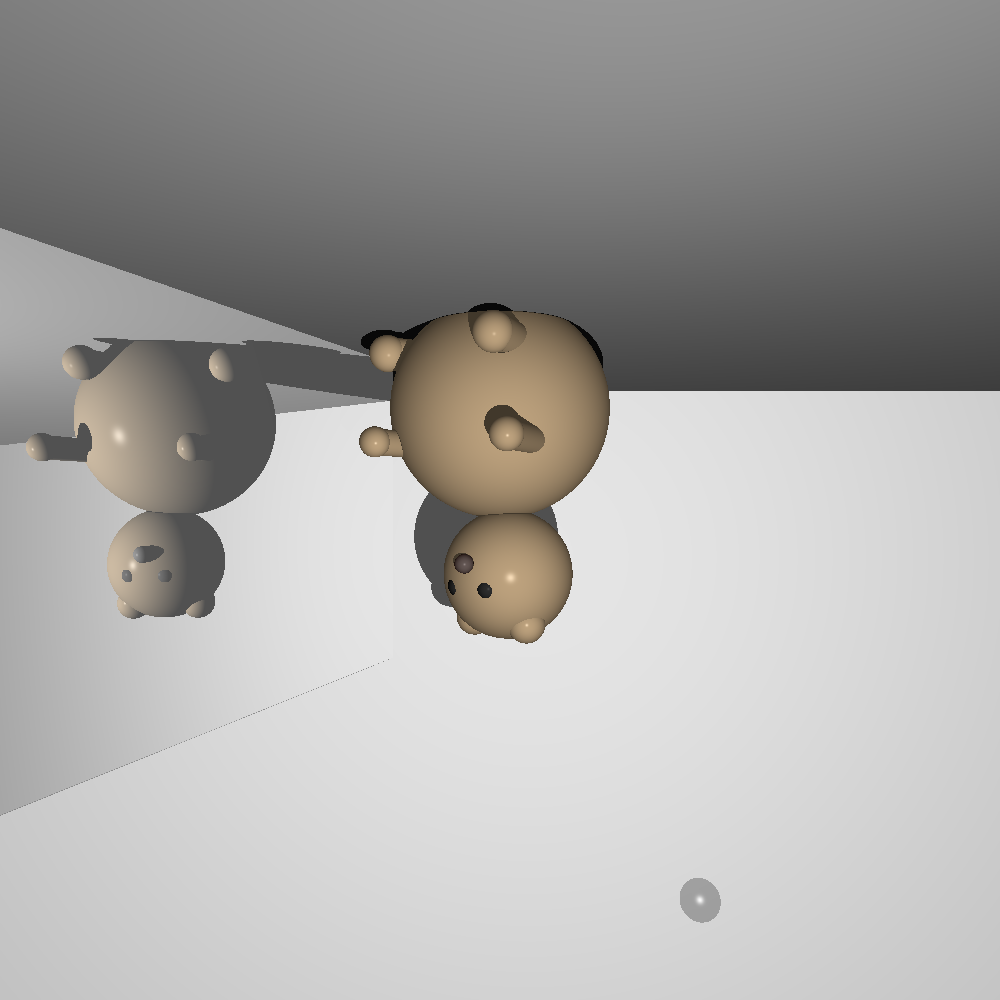
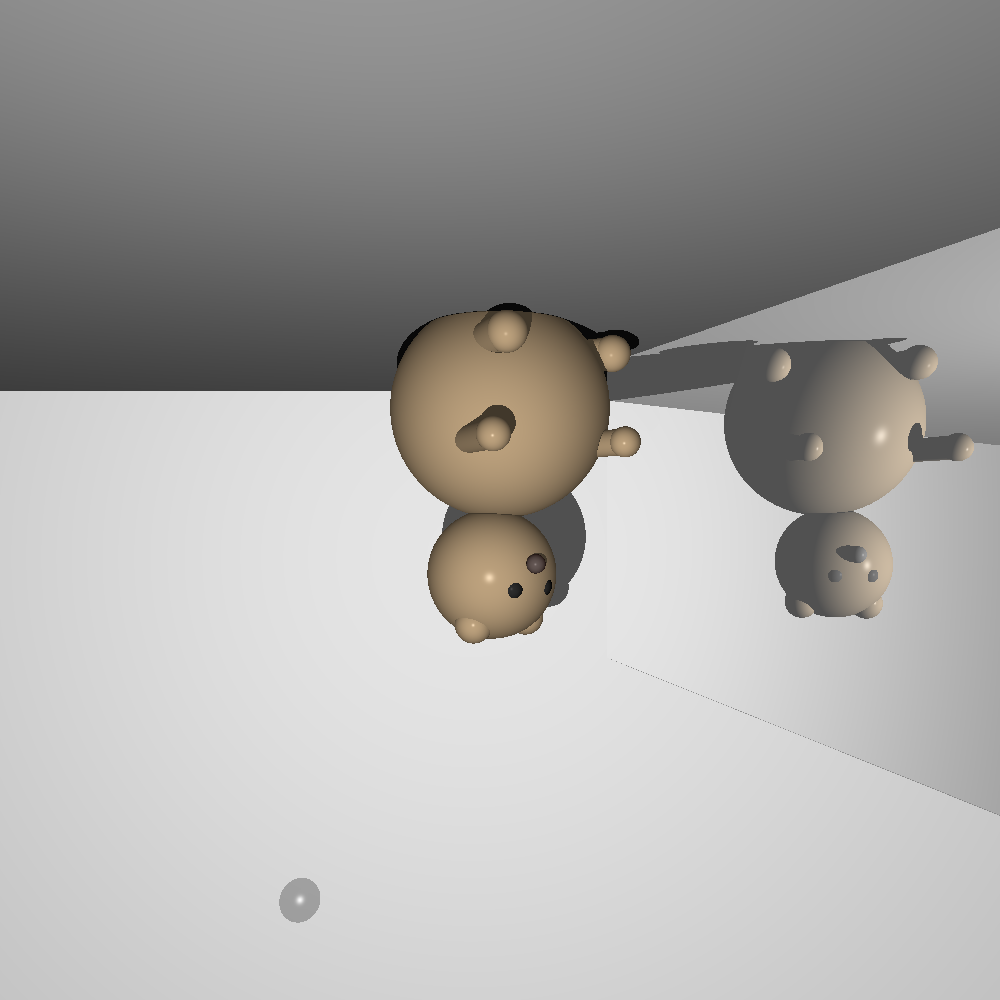
move camera bonus - using linear algebra class. tests passed.

diff --git a/src/primitives/Transform.java b/src/primitives/Transform.java
@@ -5,6 +5,8 @@ import java.util.List;
 
 import primitives.Double3;
 
+import static primitives.Util.isZero;
+
 /**
  * Utility class for performing basic transformations on points and vectors.
  * Provides methods for translating and rotating multiple {@link Point} or
@@ -19,23 +21,16 @@ public final class Transform {
      * Translates the given points (or vectors) by moving them in the provided
      * direction scaled to the specified distance.
      *
-     * @param direction the direction of translation
-     * @param distance  how far to move along the direction
+     * @param delta    the direction and distance to move the points
      * @param points    the points or vectors to move
      * @return a new list containing the moved points, preserving the runtime
      *         type of each element
      */
-    public static List<Point> movePoints(Vector direction, double distance,
-                                         Point... points) {
-        Vector delta = direction.normalize().scale(distance);
+    public static List<Point> movePoints(Vector delta, Point... points) {
         List<Point> result = new ArrayList<>(points.length);
         for (Point p : points) {
-            Double3 xyz = p.xyz.add(delta.xyz);
-            if (p instanceof Vector) {
-                result.add(new Vector(xyz));
-            } else {
-                result.add(new Point(xyz));
-            }
+            Point movedPoint = p.add(delta);
+            result.add(movedPoint);
         }
         return result;
     }
@@ -45,26 +40,59 @@ public final class Transform {
      * specified angle measured in degrees.
      *
      * @param degrees rotation angle in degrees (clockwise)
+     * @param axis    the axis of rotation, which defines the origin and direction
      * @param points  the points or vectors to rotate
      * @return a new list containing the rotated points, preserving the runtime
      *         type of each element
      */
-    public static List<Point> rotatePointsClockwise(double degrees,
-                                                    Point... points) {
-        double radians = Math.toRadians(-degrees); // negative for clockwise
-        double cos = Math.cos(radians);
-        double sin = Math.sin(radians);
+    public static List<Point> rotatePointsClockwise(double degrees, Ray axis, Point... points) {
+        Point origin = axis.getHead();
         List<Point> result = new ArrayList<>(points.length);
+
         for (Point p : points) {
-            double x = p.xyz.d1() * cos - p.xyz.d2() * sin;
-            double y = p.xyz.d1() * sin + p.xyz.d2() * cos;
-            Double3 xyz = new Double3(x, y, p.xyz.d3());
-            if (p instanceof Vector) {
-                result.add(new Vector(xyz));
-            } else {
-                result.add(new Point(xyz));
-            }
+            Vector v = p.subtract(origin);
+            Vector rotated = rotateVectorsClockwise(degrees, axis, v).get(0); // Rotate the vector
+            Point rotatedPoint = origin.add(rotated);
+            result.add(rotatedPoint);
         }
         return result;
     }
+
+    /**
+     * Rotates the given vectors around the specified axis clockwise by the
+     * specified angle measured in degrees.
+     *
+     * @param degrees rotation angle in degrees (clockwise)
+     * @param axis    the axis of rotation, which defines the origin and direction
+     * @param vectors the vectors to rotate
+     * @return a new list containing the rotated vectors, preserving the runtime
+     *         type of each element
+     */
+    public static List<Vector> rotateVectorsClockwise(double degrees, Ray axis, Vector... vectors) {
+        double radians = Math.toRadians(-degrees);
+        double cos = Math.cos(radians);
+        double sin = Math.sin(radians);
+        Vector k = axis.getDirection();
+        List<Vector> result = new ArrayList<>(vectors.length);
+
+        for (Vector v : vectors) {
+
+            // General case: Rodrigues' rotation formula
+            Point term1 = isZero(cos) ?  new Point(0, 0, 0) : v.scale(cos);
+            Point term2 = isZero(sin)? new Point(0, 0, 0) : k.crossProduct(v).scale(sin);
+            Point term3 = isZero(k.dotProduct(v)) ? new Point(0, 0, 0) : k.scale(k.dotProduct(v) * (1 - cos));
+
+            // Ensure precision by aligning values to zero where applicable
+            Vector rotated = new Vector(
+                Util.alignZero(term1.xyz.d1() + term2.xyz.d1() + term3.xyz.d1()),
+                Util.alignZero(term1.xyz.d2() + term2.xyz.d2() + term3.xyz.d2()),
+                Util.alignZero(term1.xyz.d3() + term2.xyz.d3() + term3.xyz.d3())
+            );
+
+            result.add(rotated);
+        }
+        return result;
+    }
+
+
 }

diff --git a/src/renderer/Camera.java b/src/renderer/Camera.java
@@ -1,12 +1,10 @@
 package renderer;
 
-import primitives.Color;
-import primitives.Point;
-import primitives.Ray;
-import primitives.Vector;
+import primitives.*;
 import scene.Scene;
 
 import java.util.MissingResourceException;
+import java.util.List;
 
 import static primitives.Util.isZero;
 
@@ -22,11 +20,11 @@ public class Camera implements Cloneable {
     public static class Builder {
         final private Camera camera;
 
-        public Builder(){
+        public Builder() {
             camera = new Camera();
         }
 
-        public Builder(Camera old){
+        public Builder(Camera old) {
             camera = old;
         }
 
@@ -131,9 +129,9 @@ public class Camera implements Cloneable {
          * Finalizes and builds the camera.
          *
          * @return the constructed camera
-         * @throws CloneNotSupportedException        if cloning fails
-         * @throws MissingResourceException          if essential camera properties are missing
-         * @throws IllegalArgumentException          if resolution is invalid
+         * @throws CloneNotSupportedException if cloning fails
+         * @throws MissingResourceException   if essential camera properties are missing
+         * @throws IllegalArgumentException   if resolution is invalid
          */
         public Camera build() throws CloneNotSupportedException {
             String exceptionMessageProblem = "renderer data messing";
@@ -190,7 +188,7 @@ public class Camera implements Cloneable {
          * @return this builder
          */
         public Builder zoom(double delta) {
-            camera.p0 = camera.p0.add(camera.VTo.scale(delta));
+            moveAndLookAt(camera.VTo.scale(delta));
             return this;
         }
 
@@ -201,7 +199,7 @@ public class Camera implements Cloneable {
          * @return this builder
          */
         public Builder moveAndLookAt(Vector delta) {
-            camera.p0 = camera.p0.add(delta);
+            camera.p0 = Transform.movePoints(delta, camera.p0).get(0);
             Vector newVTo = camera.pc.subtract(camera.p0).normalize();
             camera.VTo = newVTo;
             camera.VRight = camera.VTo.crossProduct(camera.VUp).normalize();
@@ -216,34 +214,12 @@ public class Camera implements Cloneable {
          * @return this builder
          */
         public Builder roll(double angleDegrees) {
-            double angleRadians = Math.toRadians(angleDegrees);
-
-            // Special case handling for ±90° (cosine = 0)
-            if (isZero(Math.cos(angleRadians))) {
-                Vector newVUp = camera.VRight.scale(Math.signum(Math.sin(angleRadians))).normalize();
-                Vector newVRight = camera.VTo.crossProduct(newVUp).normalize();
-
-                camera.VUp = newVUp;
-                camera.VRight = newVRight;
-                return this;
-            }
-
-            // Special case handling for 0° or 180° (sine = 0)
-            if (isZero(Math.sin(angleRadians))) {
-                if (angleDegrees == 180 || angleDegrees == -180) {
-                    camera.VUp = camera.VUp.scale(-1); // Flip the VUp vector
-                }
-                return this;
-            }
-
-            // General case
-            Vector newVUp = camera.VUp.scale(Math.cos(angleRadians))
-                    .add(camera.VRight.scale(Math.sin(angleRadians)))
-                    .normalize();
-            Vector newVRight = camera.VTo.crossProduct(newVUp).normalize();
-
-            camera.VUp = newVUp;
-            camera.VRight = newVRight;
+            // Rotate the camera's up vector around the viewing direction
+            camera.VUp = Transform.rotateVectorsClockwise(
+                    angleDegrees, new Ray(camera.p0, camera.VTo), camera.VUp
+            ).get(0);
+            // Recalculate the right vector
+            camera.VRight = camera.VTo.crossProduct(camera.VUp).normalize();
             return this;
         }
 
@@ -321,8 +297,8 @@ public class Camera implements Cloneable {
         return new Builder();
     }
 
-    public static Builder getBuilder(Camera oldCamera){
-        return  new Builder(oldCamera);
+    public static Builder getBuilder(Camera oldCamera) {
+        return new Builder(oldCamera);
     }
 
     /**

diff --git a/unittests/primitives/TransformTest.java b/unittests/primitives/TransformTest.java
@@ -9,21 +9,22 @@ import static org.junit.jupiter.api.Assertions.*;
 class TransformTest {
 
     /**
-     * Test for {@link Transform#movePoints(Vector, double, Point...)}.
+     * Test for {@link Transform#movePoints(Vector, Point...)}.
      */
     @Test
     void testMovePoints() {
-        List<Point> moved = Transform.movePoints(new Vector(1, 0, 0), 2,
+        List<Point> moved = Transform.movePoints(new Vector(1, 0, 0),
                 new Point(0, 0, 0), new Point(1, 0, 0));
-        assertEquals(List.of(new Point(2, 0, 0), new Point(3, 0, 0)), moved);
+        assertEquals(List.of(new Point(1, 0, 0), new Point(2, 0, 0)), moved);
     }
 
     /**
-     * Test for {@link Transform#rotatePointsClockwise(double, Point...)}.
+     * Test for {@link Transform#rotatePointsClockwise(double, Ray, Point...)}.
      */
     @Test
     void testRotatePointsClockwise() {
-        List<Point> rotated = Transform.rotatePointsClockwise(90,
+        Ray axis = new Ray(new Point(0, 0, 0), new Vector(0, 0, 1));
+        List<Point> rotated = Transform.rotatePointsClockwise(90, axis,
                 new Point(1, 0, 0), new Point(0, 1, 0));
         assertEquals(List.of(new Point(0, -1, 0), new Point(1, 0, 0)), rotated);
     }
@@ -33,9 +34,11 @@ class TransformTest {
      */
     @Test
     void testMoveVectors() {
-        List<Point> moved = Transform.movePoints(new Vector(0, 0, 1), 3,
+
+        List<Point> moved = Transform.movePoints(new Vector(0, 0, 1),
                 new Vector(1, 0, 0), new Vector(0, 1, 0));
-        assertEquals(List.of(new Point(1, 0, 3), new Point(0, 1, 3)), moved);
+        assertEquals(List.of(new Point(1, 0, 1), new Point(0, 1, 1)), moved);
+
     }
 
     /**
@@ -43,8 +46,27 @@ class TransformTest {
      */
     @Test
     void testRotateVectorsClockwise() {
-        List<Point> rotated = Transform.rotatePointsClockwise(90,
+        Ray axis = new Ray(new Point(0, 0, 0), new Vector(0, 0, 1));
+        List<Vector> rotated = Transform.rotateVectorsClockwise(90, axis,
                 new Vector(1, 0, 0), new Vector(0, 1, 0));
-        assertEquals(List.of(new Point(0, -1, 0), new Point(1, 0, 0)), rotated);
+        assertEquals(List.of(new Vector(0, -1, 0), new Vector(1, 0, 0)), rotated);
+
+        // Additional test for a vector that is not aligned with the axis 30 degrees rotation
+        List<Vector> rotated2 = Transform.rotateVectorsClockwise(30, axis,
+                new Vector(1, 1, 0), new Vector(0, 1, 1));
+        assertEquals(List.of(
+                new Vector(1.3660254037844386,0.36602540378443876,0.0),
+                new Vector(0.49999999999999994,0.8660254037844387,1.0)
+        ), rotated2);
+
+        //evp 180 degrees rotation
+        List<Vector> rotated3 = Transform.rotateVectorsClockwise(180, axis,
+                new Vector(1, 0, 0), new Vector(0, 1, 0));
+        assertEquals(List.of(new Vector(-1, 0, 0), new Vector(0, -1, 0)), rotated3);
+
+        //evp 90 degrees rotation with a vector not aligned with the axis
+        List<Vector> rotated4 = Transform.rotateVectorsClockwise(90, axis,
+                new Vector(1, 1, 0), new Vector(0, 1, 1));
+        assertEquals(List.of(new Vector(1, -1, 0), new Vector(1, 0, 1)), rotated4);
     }
 }
